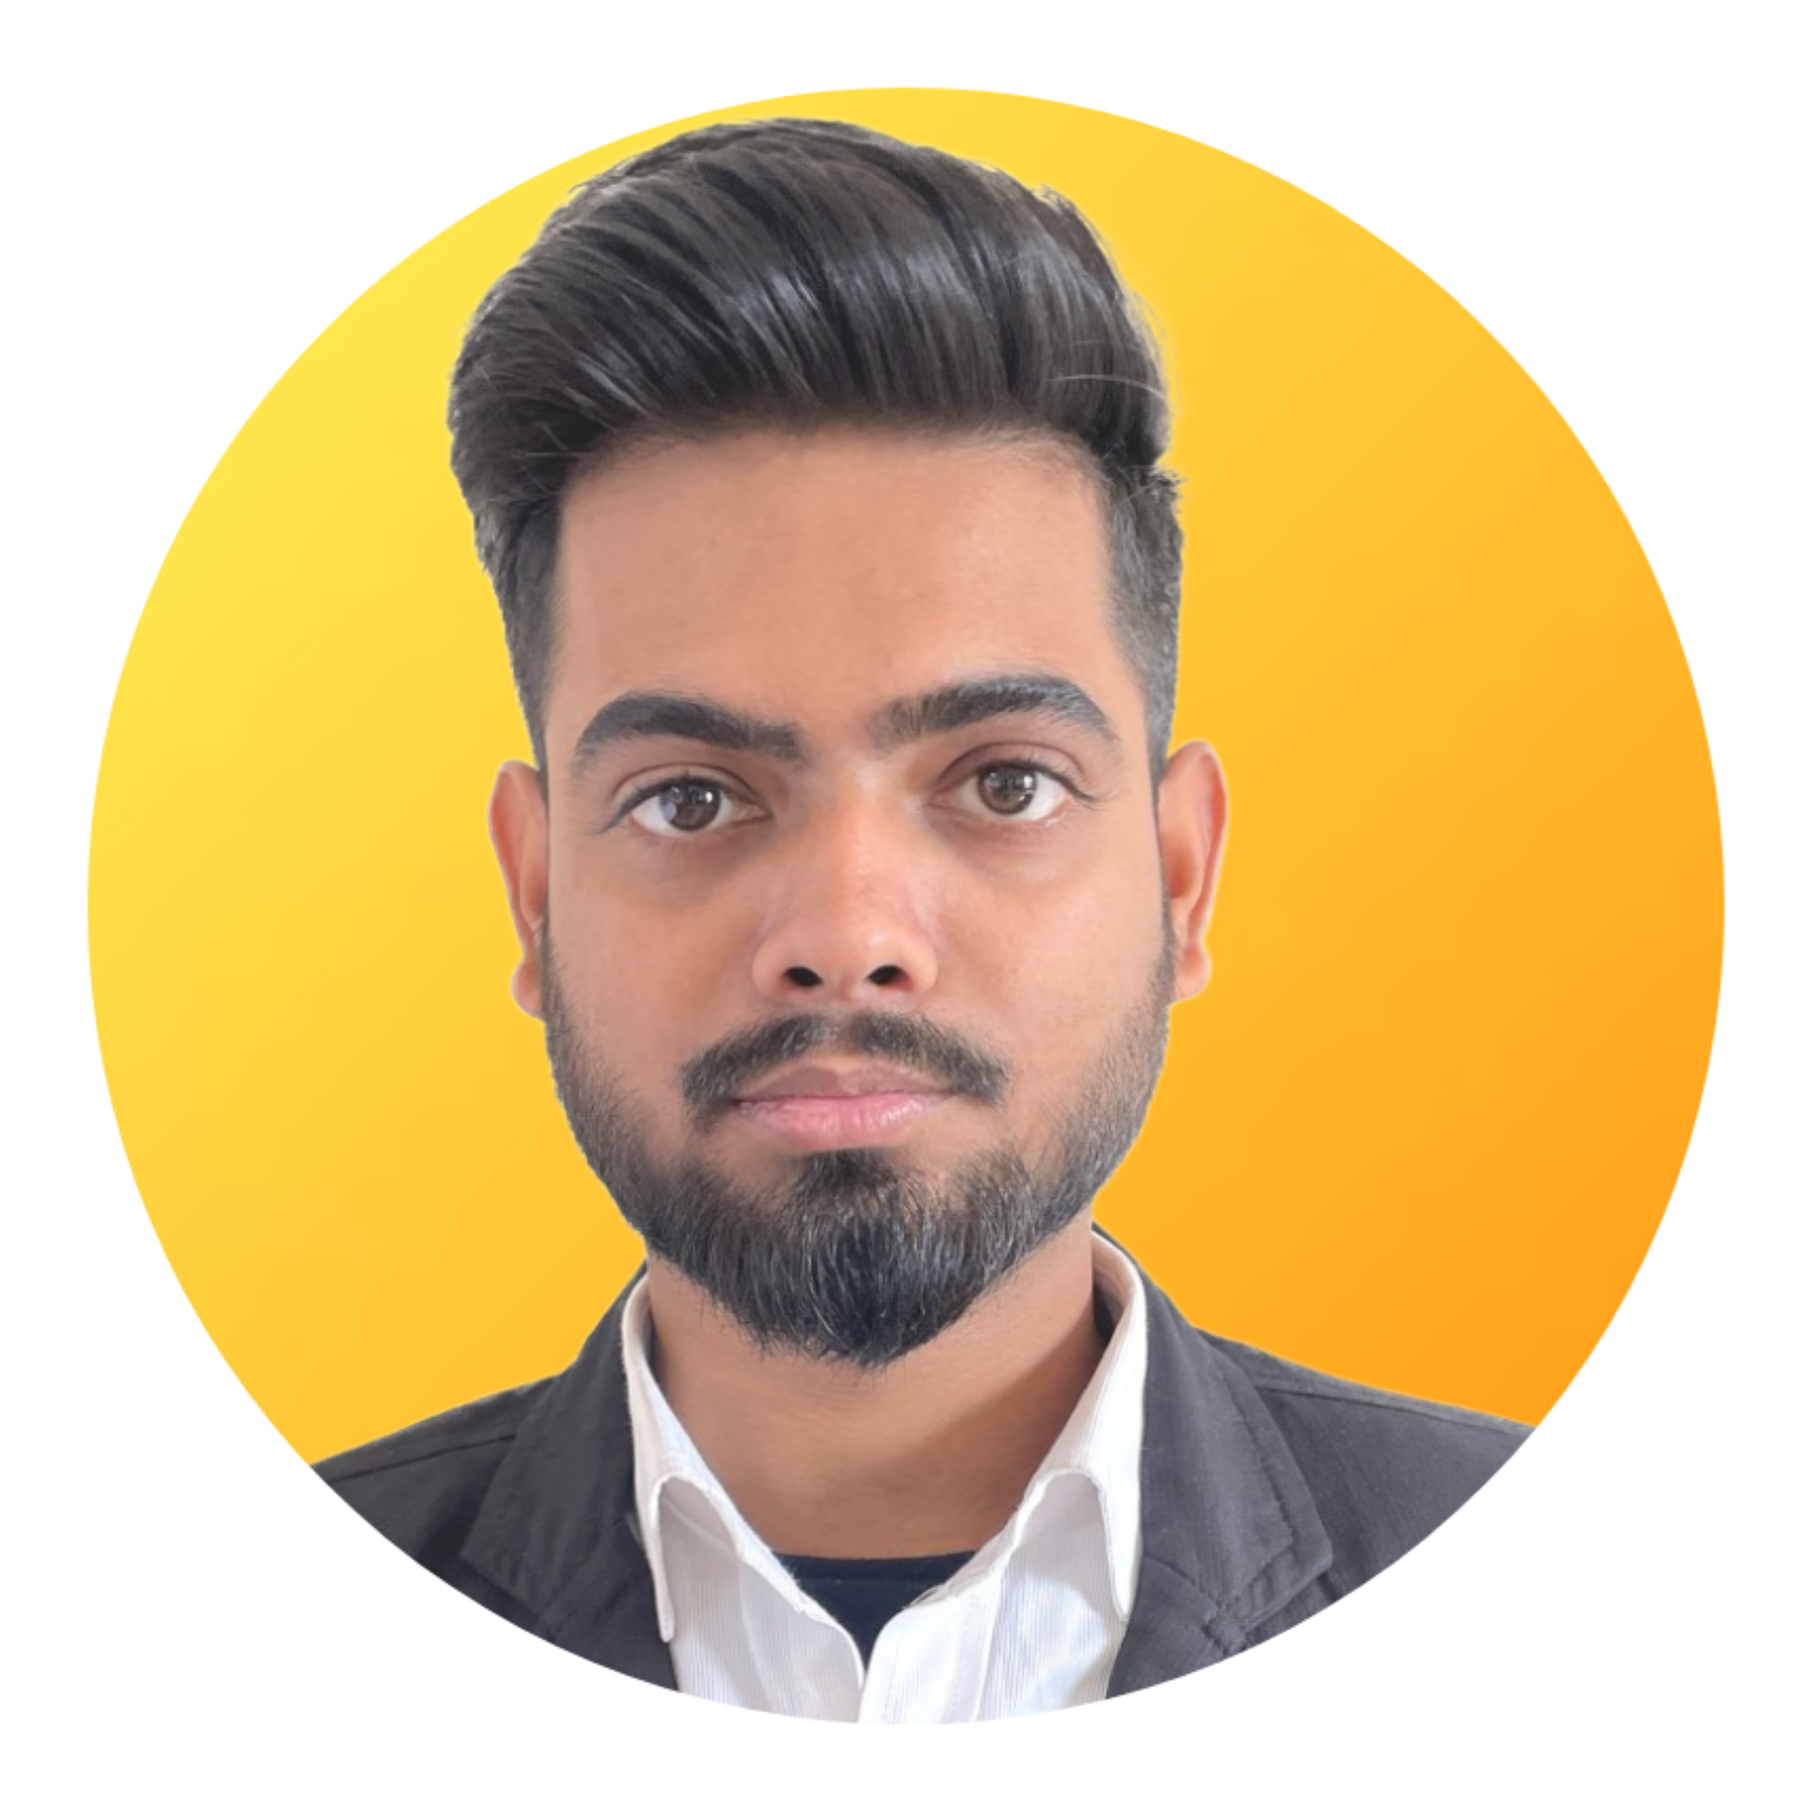
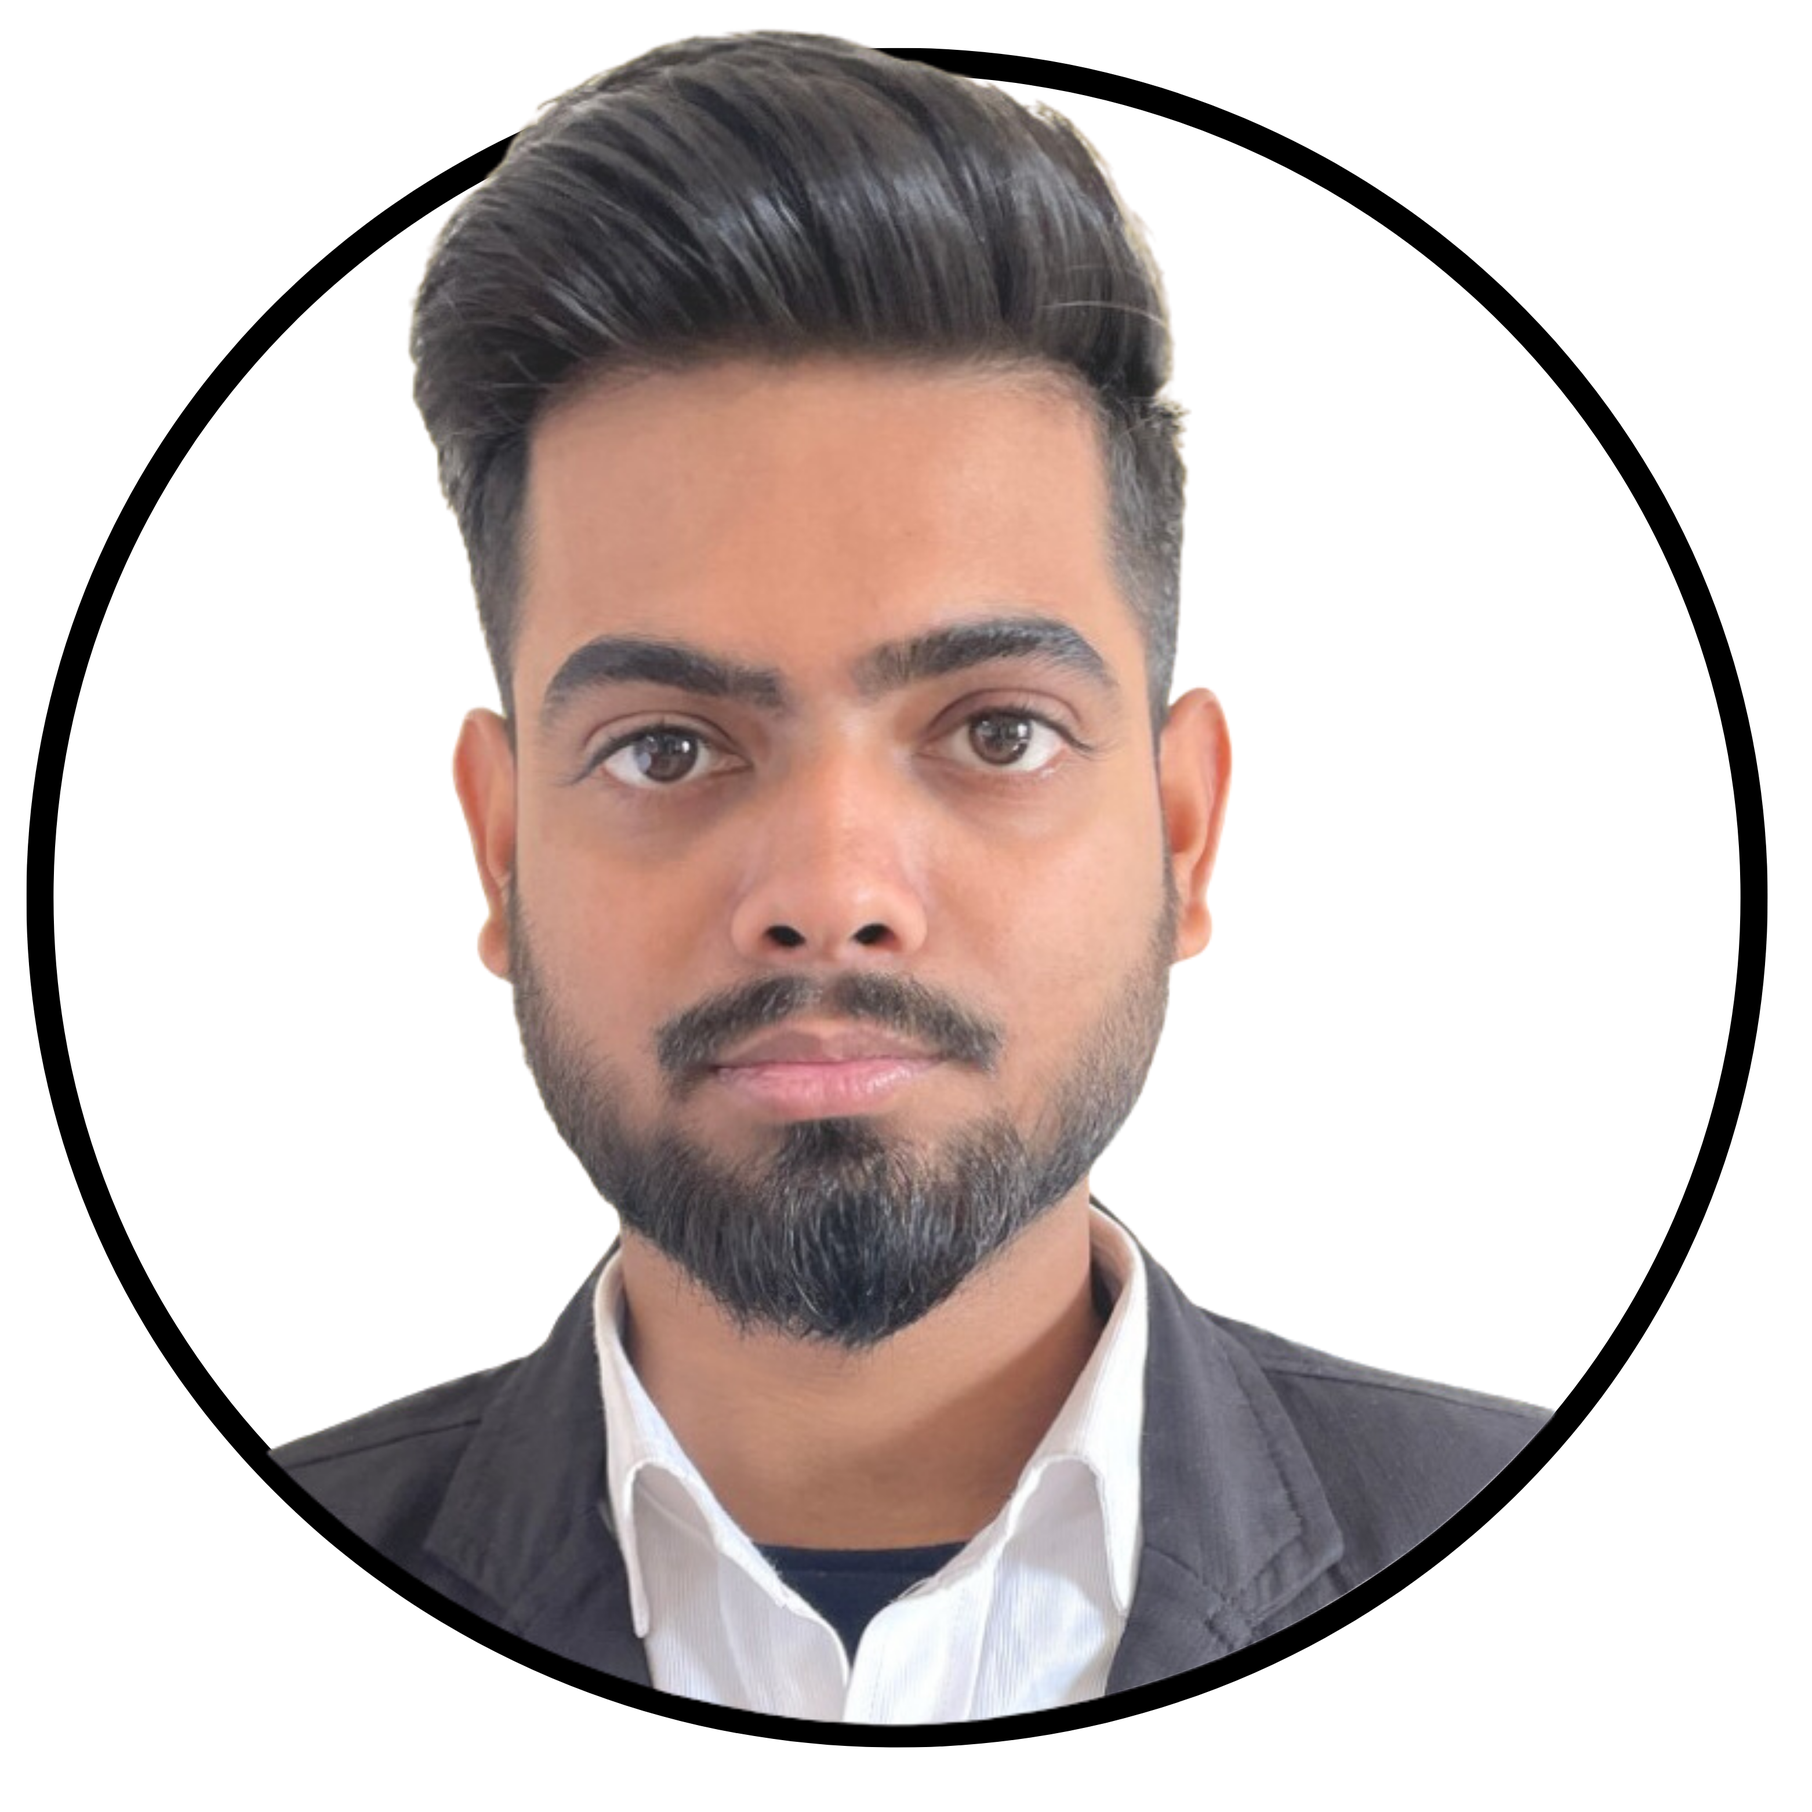
Add files via upload

diff --git a/index.html b/index.html
@@ -44,7 +44,10 @@
       <div class="section__text">
         <p class="section__text__p1">Hello, I'm</p>
         <h1 class="title">Amarjeet Aryan</h1>
-        <p class="section__text__p2">Graphics Designer</p>
+          <div class="static-txt">
+              <ul class="dynamic-txt">
+              <p class="section__text__p2\">Graphics Designer</p>
+                  </div>
         <div class="btn-container">
           <button
             class="btn btn-color-2"
@@ -79,7 +82,7 @@
       <div class="section-container">
         <div class="section__pic-container">
           <img
-            src="./assets/about-pic.png"
+            src="./assets/about-pic.jpg"
             alt="Profile picture"
             class="about-pic"
           />
@@ -143,6 +146,7 @@
                   <p>Intermediate</p>
                 </div>
               </article>
+              
               <article>
                 <img
                   src="./assets/checkmark.png"
@@ -151,17 +155,6 @@
                 />
                 <div>
                   <h3>Graphics Designer</h3>
-                  <p>Experienced</p>
-                </div>
-              </article>
-              <article>
-                <img
-                  src="./assets/checkmark.png"
-                  alt="Experience icon"
-                  class="icon"
-                />
-                <div>
-                  <h3>HTML</h3>
                   <p>Intermediate</p>
                 </div>
               </article>
@@ -172,8 +165,19 @@
                   class="icon"
                 />
                 <div>
-                  <h3>CSS</h3>
+                  <h3>Cascading style sheet</h3>
                   <p>Basic</p>
+                </div>
+              </article>
+                <article>
+                <img
+                  src="./assets/checkmark.png"
+                  alt="Experience icon"
+                  class="icon"
+                />
+                <div>
+                  <h3>HTML</h3>
+                  <p>Experienced</p>
                 </div>
               </article>
               <article>
@@ -183,7 +187,7 @@
                   class="icon"
                 />
                 <div>
-                  <h3>Prompt Engineering</h3>
+                  <h3>Python</h3>
                   <p>intermediate</p>
                 </div>
               </article>
@@ -201,7 +205,7 @@
             </div>
           </div>
           <div class="details-container">
-            <h2 class="experience-sub-title">Frontend Development</h2>
+            <h2 class="experience-sub-title">Other Skills</h2>
             <div class="article-container">
               <article>
                 <img
@@ -243,7 +247,7 @@
                   class="icon"
                 />
                 <div>
-                  <h3>Python</h3>
+                  <h3>Prompt Engineering</h3>
                   <p>Intermediate</p>
                 </div>
               </article>
@@ -263,80 +267,69 @@
       <h1 class="title">Projects</h1>
       <div class="experience-details-container">
         <div class="about-containers">
+          
           <div class="details-container color-container">
             <div class="article-container">
-              <img
-                src="./assets/project-1.png"
-                alt="Project 1"
-                class="project-img"
-              />
+              <script src="https://cdn.jsdelivr.net/npm/publicalbum@latest/embed-ui.min.js" async></script>
+<div class="pa-carousel-widget" style="width:100%; height:480px; display:none;"
+  data-link="https://photos.app.goo.gl/tV3TVzgizYsgow4j8"
+  data-title="My projects"
+  data-description="32 new items added to shared album"
+  data-delay="2"
+  data-background-color="#ffffff">
+  <object data="https://lh3.googleusercontent.com/pw/ADCreHcwtBHONJFm05pYXhS4Y-56uDWyL6wyr0_Qf0h-HSmpgTbCWiu32taHl_vqucKQy3gTOueQXzemZJW1BTHUdy8tmJPDrhmUPvdXyDogzWWQmn_DHQ=w1920-h1000"></object>
+  <object data="https://lh3.googleusercontent.com/pw/ADCreHdlKd89aH3hsmxOYy7qCcrZm1NljBvg4uDLURfxbSJ1-xpKEPOGBeTGY2dm3mLbqxJG793EhOjYhsge5HCiUsmkOjddjg1V0BMOarhig9qRMt7xmg=w1920-h1000"></object>
+  <object data="https://lh3.googleusercontent.com/pw/ADCreHfQiG0zmnHFdGJajab6LcmMVUpjIqCjvsqvMEHO3Ta0uSkoCpVW5Om64q3ywJYZNNRmU3O7LgIHchhZIk5GT0mfuHwluUNKW8aJS82iv2KtAL-Kxw=w1920-h1000"></object>
+  <object data="https://lh3.googleusercontent.com/pw/ADCreHerJMuzYk3mUtJZTVXP1fZqk3ItFdjICfuzwc2CjnSzfGLkGasyhW4D7kE2G4Kh9tMsRnVDR7GexOhaZbUeIexu26e5zm3fiEU8G6LH8yyefHpm9w=w1920-h1000"></object>
+  <object data="https://lh3.googleusercontent.com/pw/ADCreHeDR1bLI_0zAvHQFJo6gzF7cnLfcMMgBa5S9qKmUI2wwm2JJ983WTT9wH2FqUL9tCXlPya2aZ7lWB4jG9Rf1Mt9uzMypMRsgecOF02ZkCXCxsz73w=w1920-h1000"></object>
+  <object data="https://lh3.googleusercontent.com/pw/ADCreHedkl1Skbop0D6m1FHH8qjl3V3AjxDWZ2jn8dc4vuzVxjstSdmxb9DQ6GRYNMkEzGKrPsWfFeTp6Zi17ldprSIxiZCdWOt1xyvAvJJyUxywcn0VIQ=w1920-h1000"></object>
+  <object data="https://lh3.googleusercontent.com/pw/ADCreHfcu81xPr1vkfww50nDqUo4t21wGAqVaRYsrrWXNQ46SRe8T-GZg7r9sCaQjBFSJ6zC6bE8gw0kXUICNmUhuN1LtlK4IY_6W6at5gD33oEK_I4MUA=w1920-h1000"></object>
+  <object data="https://lh3.googleusercontent.com/pw/ADCreHf37j8mACzYhxuMPqlZDjabyaLdTa5vK8T9mNkWd60Y8OS5GvD2NfXd3hKEb03t02A3dPZcjazu-3jRC8mABwe4IJMa-wB1_8v_vuqP2-EZCYYDhA=w1920-h1000"></object>
+  <object data="https://lh3.googleusercontent.com/pw/ADCreHf_LR9sFrsWNfiRinpr_5K9cjXobwCCe96LuwEZvz_CyOH6PZG0_jzcnTHBTiFcsBc5nkuBNY9m_6nUqs1ejgFuyMy7g2xK3nOZDAWoOPw3dCUNTQ=w1920-h1000"></object>
+  <object data="https://lh3.googleusercontent.com/pw/ADCreHc9qiR5HRzPVACRqcJz1ihOJqKBsiuWnMhJ3xoCKkrYPWVG96Rn2Ic8grzWgtPbUsRKGn6BZunfMHImrnJGW2etquxGJ-j6WOu2zCNRBtxxie-J_A=w1920-h1000"></object>
+  <object data="https://lh3.googleusercontent.com/pw/ADCreHfRQjWXozKK0kjJrvTJcppavmxRg3waqkBSkzqeKxdUTqJJ76lReOjtB6pQAHlBLpkzUA0B9mpJsMCs7uOUm1lPZ5XPQZsXuCVXgP8Ox8DbUqVQxg=w1920-h1000"></object>
+  <object data="https://lh3.googleusercontent.com/pw/ADCreHdypuorHf_OeNYnshf3Ujuz3mDn6Jbz5rHEwjAYgHtDNA6HBC6YpIqIKKaAN-aoq2BN2zPWayYG1PXqqmjOpx6QyYyAoR1HXQQEzt4wuYszn-nwPg=w1920-h1000"></object>
+  <object data="https://lh3.googleusercontent.com/pw/ADCreHdF6s2FmSh8ujIJwoOxet5SFTyHPnH9rvaEtMOB-oEga0KNg5Q3vFe6PCvBY_sKerMnWRJkfbT6FD_TlcqXrlUh-himA_AHxgqdphCpIThQrb3tjA=w1920-h1000"></object>
+  <object data="https://lh3.googleusercontent.com/pw/ADCreHdREGwj-IzwtaKhOeLXokUNlmr4LW9izAfTWdOv2WnuFldUnuwSXG5FUVjGhBSCFRWghPwd-_EfoqvpEEehaMB-_xQjtDutQFZAEIGSrJeJ3OjQjg=w1920-h1000"></object>
+  <object data="https://lh3.googleusercontent.com/pw/ADCreHfrM9V-46fDfAUsCsN3X7MBG8rsn4lw-FngAZKqfDW5cQoh8tDRXNUKpzgeh9rPDCO9epNDC7f3m0OJjbFwVF1zy5Z63LtEFuaw66-26rA10qiWkQ=w1920-h1000"></object>
+  <object data="https://lh3.googleusercontent.com/pw/ADCreHe7P53VZQvOCIq027Cf0NzF9gDNRka54SlFdn3C4q6yswWipKO3dQ1c3QtNTKTYiHydUOXULKyNJK0sOhX3lJZG2GYcdL5C_s38CdZ4BXsWQhf4aA=w1920-h1000"></object>
+  <object data="https://lh3.googleusercontent.com/pw/ADCreHc3Ij6OSpVU5IPyeNsBweHm-u6WN511Cw7OsmtSgS0G2VVY9hWSYuw7G8xLQKKKf-1zdDKOJSVl1b8PS-iBDtWTefIu7o6SrC5q6Lfsu_PrsfewGQ=w1920-h1000"></object>
+  <object data="https://lh3.googleusercontent.com/pw/ADCreHcOSD_yKwxSXSmDGzcIXfq5gUYYn8A90V78nJ7IGSXauVML_7__AjhXDDL4EEU_Cd8N9B_48OidOhPODlkDd6aXIe3WTAKBdoTlovWOl4jevFAAVA=w1920-h1000"></object>
+  <object data="https://lh3.googleusercontent.com/pw/ADCreHdZ5pWi0QUkJ6lmLbKnhK7oqjXsNgCH5kZrEF0u2B8Gk3nO0k4yIdiOIdOK29ZHFJ1gdHSKTWtA6SZuPXcaIb_cg68HGhPDXzg4S16fRtgsDoeB2w=w1920-h1000"></object>
+  <object data="https://lh3.googleusercontent.com/pw/ADCreHfsbp34T8r-QKmdLC6lEgqnC2Al7qqw25CA3rCWfgfRLVewDj4RQJgr50Rn35OTD7LxfhxzE8ixyppCJaPy1qgOCN5tiJChSHtbvSNcwXubcoIzsQ=w1920-h1000"></object>
+  <object data="https://lh3.googleusercontent.com/pw/ADCreHf8LGwj_I3_Qx3m5HIvxz1AfVFjPz2v2Si6pQpjKTxah9cCaZfBc1Bvt17HV0CAss-xZB_sdLfHnSIPe6BxgO3Wpm2l8mzilHiBmrhX5VHMqUadJg=w1920-h1000"></object>
+  <object data="https://lh3.googleusercontent.com/pw/ADCreHePsUNws6pPtByo19Hex1rlsHKJMWbXQBcQjdjXbMbyL-nltIxFo0M6jAF-LE2HlmpoHhr0eGqPuFXyRIJ7trErOpPyrw327rZ_86VUh2sXq5NGBQ=w1920-h1000"></object>
+  <object data="https://lh3.googleusercontent.com/pw/ADCreHd_LSION8CP4R85Yt4LnfmeGIrDK3VJQRSxUJJe0ce3LNalYBBYQm2KRQsa9S91hkfBsQ8Y7u5ZziuWBRAyp-aCR5svn0paX6O6NUyqO_2Xr2bR0Q=w1920-h1000"></object>
+  <object data="https://lh3.googleusercontent.com/pw/ADCreHdy5fzM8sTTOKdFWoQEuDvdY7YxUQNqTewLeQPyCZrDrPZ4FBiPqXuFaoFFYlgnV5Ytw8mUvw0VWYN7MBvLaGIHvHd_fxn8SXCrUh9BtLgAfUXOMQ=w1920-h1000"></object>
+  <object data="https://lh3.googleusercontent.com/pw/ADCreHdgP2oE59NtKN26__2EFsIwyvMtlgTd8bFi1h0WbDzv0TWsd57HPKyCBDI8-qjdkoT-WhKXs2LW71q1tS8s8jNJG61t2EPLxw859TqX7EZjFmmsSA=w1920-h1000"></object>
+  <object data="https://lh3.googleusercontent.com/pw/ADCreHeqzANJhuk2PHXI8JeZ5ixY4Aq_BmUaLT0cTDZE5wPLf_7KZ9mM7pUf9FiwtGfOHVcplrAS-5vErBzxOAaVU8jMlgwTV4WJdySKDbdS_NWGIqWt9A=w1920-h1000"></object>
+  <object data="https://lh3.googleusercontent.com/pw/ADCreHeslRJmcdBh6W-UykJB_hs7dN3eXkOsG64itxcb4CL0E2kOaqg-5UYR-Ab9QIh0kDcKccY_JCyQBwLpSZP2yqmHsqupzUzFChNce7FFMx0rHu8wSg=w1920-h1000"></object>
+  <object data="https://lh3.googleusercontent.com/pw/ADCreHe6F3uzdZ9sWopffh82FRohCXRSfL6D6wxcL1kb9xdudmoXc5smIe2OJCv9625hcZ_QNqbWYuUrxDoLBWCZAyQza9wudXZbk3E8gP_4aNunjcQXXg=w1920-h1000"></object>
+  <object data="https://lh3.googleusercontent.com/pw/ADCreHdZnJP5Nj2DN29MG3hFIVIaMdXo3riZ3zLlqm-G67lelJtlg5yFd7JnIdhmNnv1seNZPBYNQB37_aw21dK2KujRLrqMKMyPmTCfUvgjrQc9ixlptQ=w1920-h1000"></object>
+  <object data="https://lh3.googleusercontent.com/pw/ADCreHfHqmjfPynvfD0ptlsqoEsnl5Og6aZ1bEvyvuLv_aZsxUoogTaidDjrzYJqOJX8OAX6qon4_xkP_5FYhMYDaGXlX3BNTrqsqWaszWiolrX0EYzOKA=w1920-h1000"></object>
+  <object data="https://lh3.googleusercontent.com/pw/ADCreHewr23kkV0nbn-IfYUdI0oZ1C05SIvMNjIb4G4AckXMbQ1X8baci-9IOOlS-kiCxavuKIHK1RBy0ov5PZDlib-G_V3ZGfY3bP3qv1K3lH_snEl2vg=w1920-h1000"></object>
+  <object data="https://lh3.googleusercontent.com/pw/ADCreHcmLiOxrcD0HV61UjIOSraRjNi8vyYX7He0foV96E6G1HVVHjfBQPCfJlMhaN2vOIcwI7Kf2WjNvFNfSDWeT8DOSIX7gvC-REAetZcnLMaBZb_9Uw=w1920-h1000"></object>
+</div>
+
+
+
+
+
+
             </div>
-            <h2 class="experience-sub-title project-title">Project One</h2>
-            <div class="btn-container">
-              <button
-                class="btn btn-color-2 project-btn"
-                onclick="location.href='https://github.com/'"
-              >
-                Github
-              </button>
-              <button
-                class="btn btn-color-2 project-btn"
-                onclick="location.href='https://github.com/'"
-              >
-                Live Demo
-              </button>
-            </div>
-          </div>
-          <div class="details-container color-container">
-            <div class="article-container">
-              <img
-                src="./assets/project-2.png"
-                alt="Project 2"
-                class="project-img"
-              />
-            </div>
-            <h2 class="experience-sub-title project-title">Project Two</h2>
-            <div class="btn-container">
-              <button
-                class="btn btn-color-2 project-btn"
-                onclick="location.href='https://github.com/'"
-              >
-                Github
-              </button>
-              <button
-                class="btn btn-color-2 project-btn"
-                onclick="location.href='https://github.com/'"
-              >
-                Live Demo
-              </button>
-            </div>
-          </div>
-          <div class="details-container color-container">
-            <div class="article-container">
-              <img
-                src="./assets/project-3.png"
-                alt="Project 3"
-                class="project-img"
-              />
-            </div>
-            <h2 class="experience-sub-title project-title">Project Three</h2>
-            <div class="btn-container">
-              <button
-                class="btn btn-color-2 project-btn"
-                onclick="location.href='https://github.com/'"
-              >
-                Github
-              </button>
-              <button
-                class="btn btn-color-2 project-btn"
-                onclick="location.href='https://github.com/'"
-              >
-                Live Demo
-              </button>
-            </div>
+            <div class="google-album">
+        <button
+            class="btn btn-color-2"
+            onclick="location.href='https://photos.google.com/share/AF1QipP_ZIgsMAdo4gi7qJTJzVgcYSHRGP8bOVqQpseeSLCnB4JMwOzikKAJ5m2TaxKNMw?key=RWZ1QWg0UnE1UVphdTZTcWx5MlBJX1p3QjY4NEpn' "
+          >
+            Show All Projects
+          </button>
+        </div>
+            
           </div>
         </div>
       </div>
+        
       <img
         src="./assets/arrow.png"
         alt="Arrow icon"

diff --git a/style.css b/style.css
@@ -179,19 +179,26 @@ section {
 .section__text {
   align-self: center;
   text-align: center;
+  
 }
 
 .section__text p {
   font-weight: 600;
+   margin-top: 15px;
+    margin-bottom: 15px;
 }
 
 .section__text__p1 {
   text-align: center;
+    margin-top: 15px;
+    margin-bottom: 15px;
 }
 
 .section__text__p2 {
-  font-size: 1.75rem;
+  font-size: 5rem;
   margin-bottom: 1rem;
+    margin-top: 15px;
+    margin-bottom: 15px;
 }
 
 .title {
@@ -297,10 +304,15 @@ section {
   padding: 1.5rem;
   flex: 1;
   background: white;
+    box-shadow: 0px 0px 4px #000;
   border-radius: 2rem;
-  border: rgb(53, 53, 53) 0.1rem solid;
+  border: rgb(53, 53, 53);
   border-color: rgb(163, 163, 163);
   text-align: center;
+}
+
+.details-container:hover{
+    background: linear-gradient(#ffffff, #e1e0e2);
 }
 
 .section-container {
@@ -340,13 +352,14 @@ section {
   flex-wrap: wrap;
   flex-direction: row;
   gap: 2.5rem;
-  justify-content: space-around;
+  justify-content:flex-start;
 }
 
 article {
-  display: flex;
+
+ display: flex;
   width: 10rem;
-  justify-content: space-around;
+  justify-content: space-between;
   gap: 0.5rem;
 }
 
@@ -384,6 +397,7 @@ article .icon {
 /* CONTACT */
 
 #contact {
+    margin-top: 150px;
   display: flex;
   justify-content: center;
   flex-direction: column;
@@ -433,10 +447,23 @@ footer p {
 }
 
 .code-card {
+      animation: 12;
       box-shadow: 0 2px 4px rgba(0, 0, 0, 0.1); 
       border: 1px solid #f5f5f5; /* Add a border */
-      background-color: ghostwhite; /* Add a background color */
+      background-image: url(assets/crum.gif);
+    background-size: cover;/* Add a background color */
       padding: 30px; /* Add padding for spacing */
-      border-radius: 15px; /* Add rounded corners */
     }
+.google-album{
+    
+    display: flex;
+    justify-content: center;
+    
+}
+
+.google-album .btn-color-2{
+    margin-top: 15px;
+  width: 200px;
+    
+}
   
